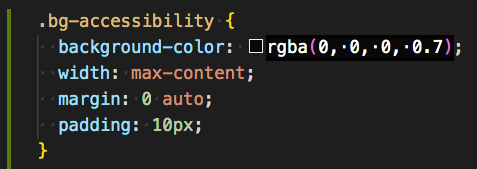
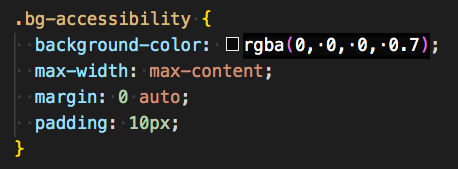
bg max-width fix :white_check_mark:

Changed region(s): [[0.0, 0.0592, 0.9782, 1.0]]

diff --git a/style.min.css b/style.min.css
@@ -610,7 +610,7 @@ figcaption {
 
 .bg-accessibility {
   background-color: rgba(0, 0, 0, 0.7);
-  width: max-content;
+  max-width: max-content;
   margin: 0 auto;
   padding: 10px;
 }

diff --git a/REPORTS/OPTIMIZATION-REPORT.md b/REPORTS/OPTIMIZATION-REPORT.md
@@ -272,7 +272,7 @@ Suite à la correction, on gagne <ins>+5pts en Accessibilité sur l'audit Lighth
 
 - création d'une classe `.bg-accessibility` afin d'ajouter un background rgba plus sombre aux éléments concernés :
 
-<img src="img/code-bgaccess.png" height="85"/>&nbsp;
+<img src="img/code-bgaccess.png" height="80"/>&nbsp;
 
 :rocket:&nbsp; <ins>**AMÉLIORATION**</ins>
 
